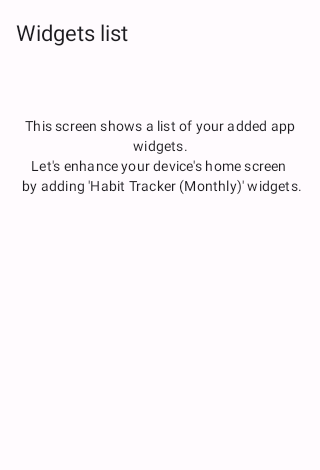
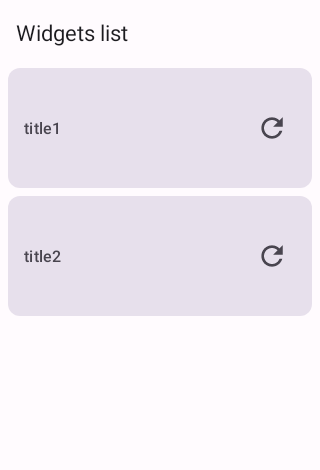
Update Image

diff --git a/app/src/test/java/com/github/goutarouh/notionboost/ui/monthlyWidgetList/MonthlyWidgetListScreenTest.kt b/app/src/test/java/com/github/goutarouh/notionboost/ui/monthlyWidgetList/MonthlyWidgetListScreenTest.kt
@@ -26,7 +26,12 @@ class MonthlyWidgetListScreenTest {
 
         // Act
         composeTestRule.setContent {
-            MonthlyWidgetListScreen(MonthlyWidgetListUiModel())
+            MonthlyWidgetListScreen(MonthlyWidgetListUiModel(
+                widgets = listOf(
+                    MonthlyWidgetListItemModel(title = "title1"),
+                    MonthlyWidgetListItemModel(title = "title2"),
+                )
+            ))
         }
 
         // Assert
